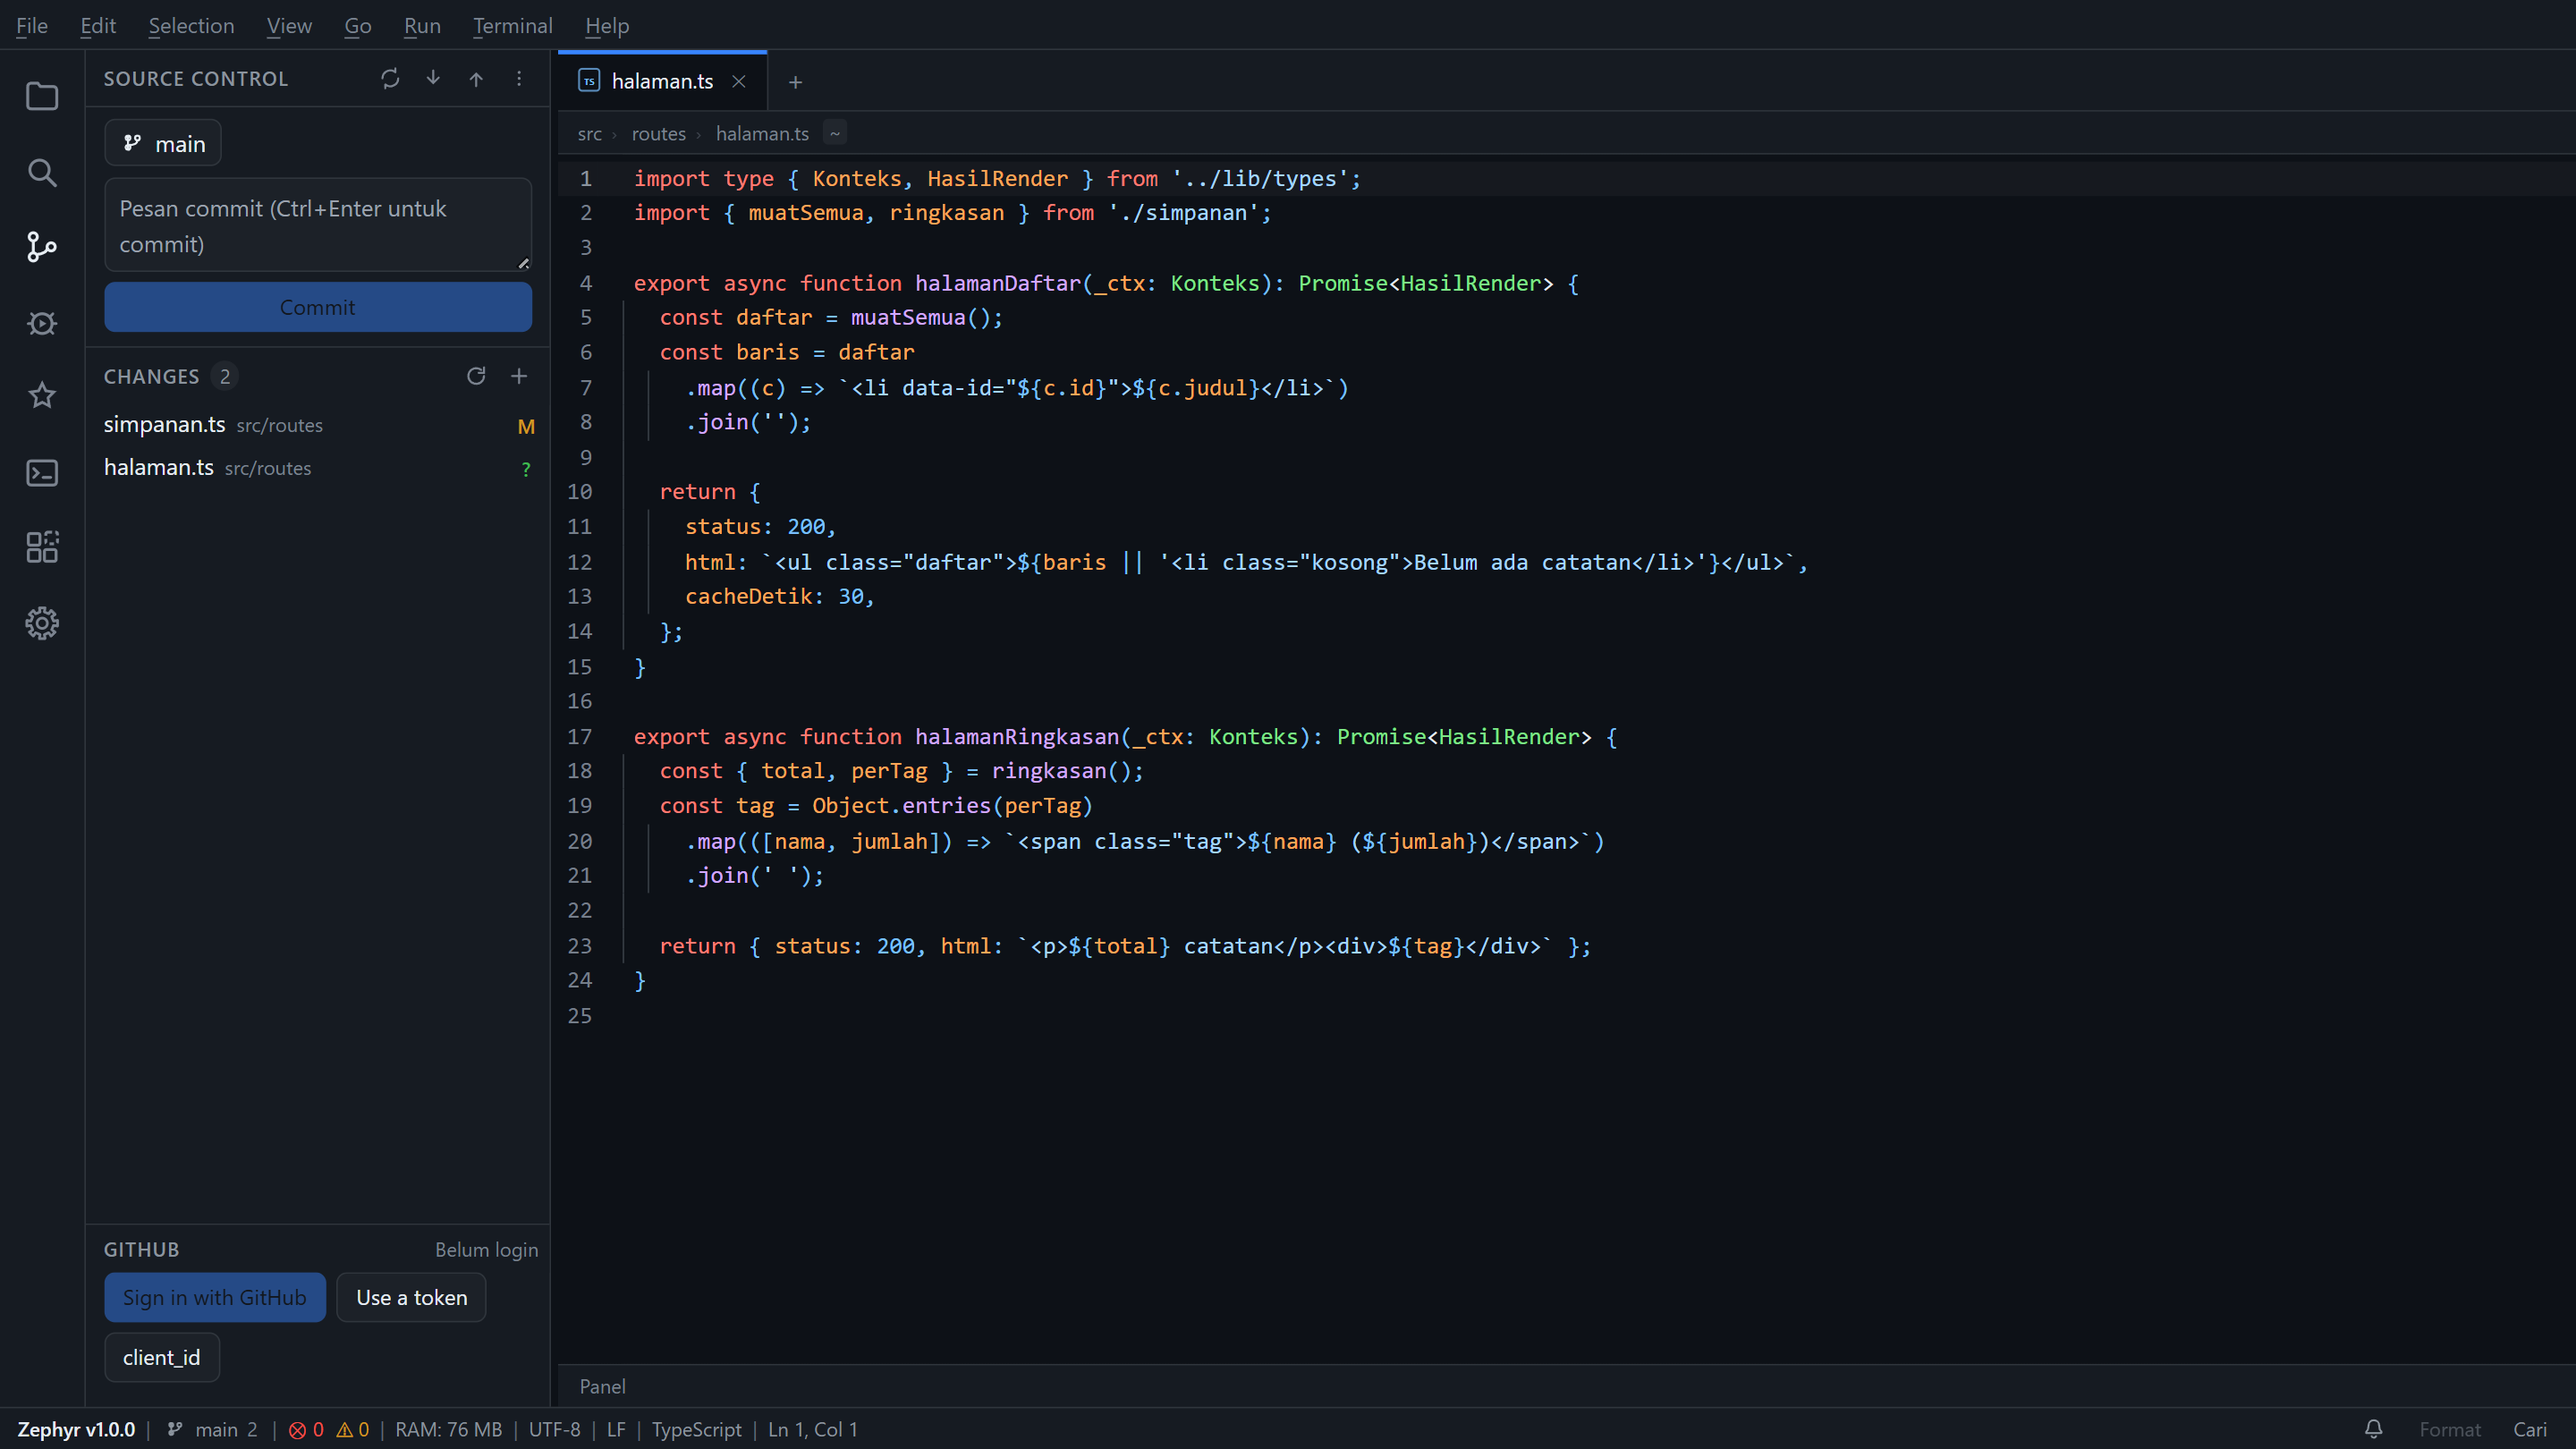
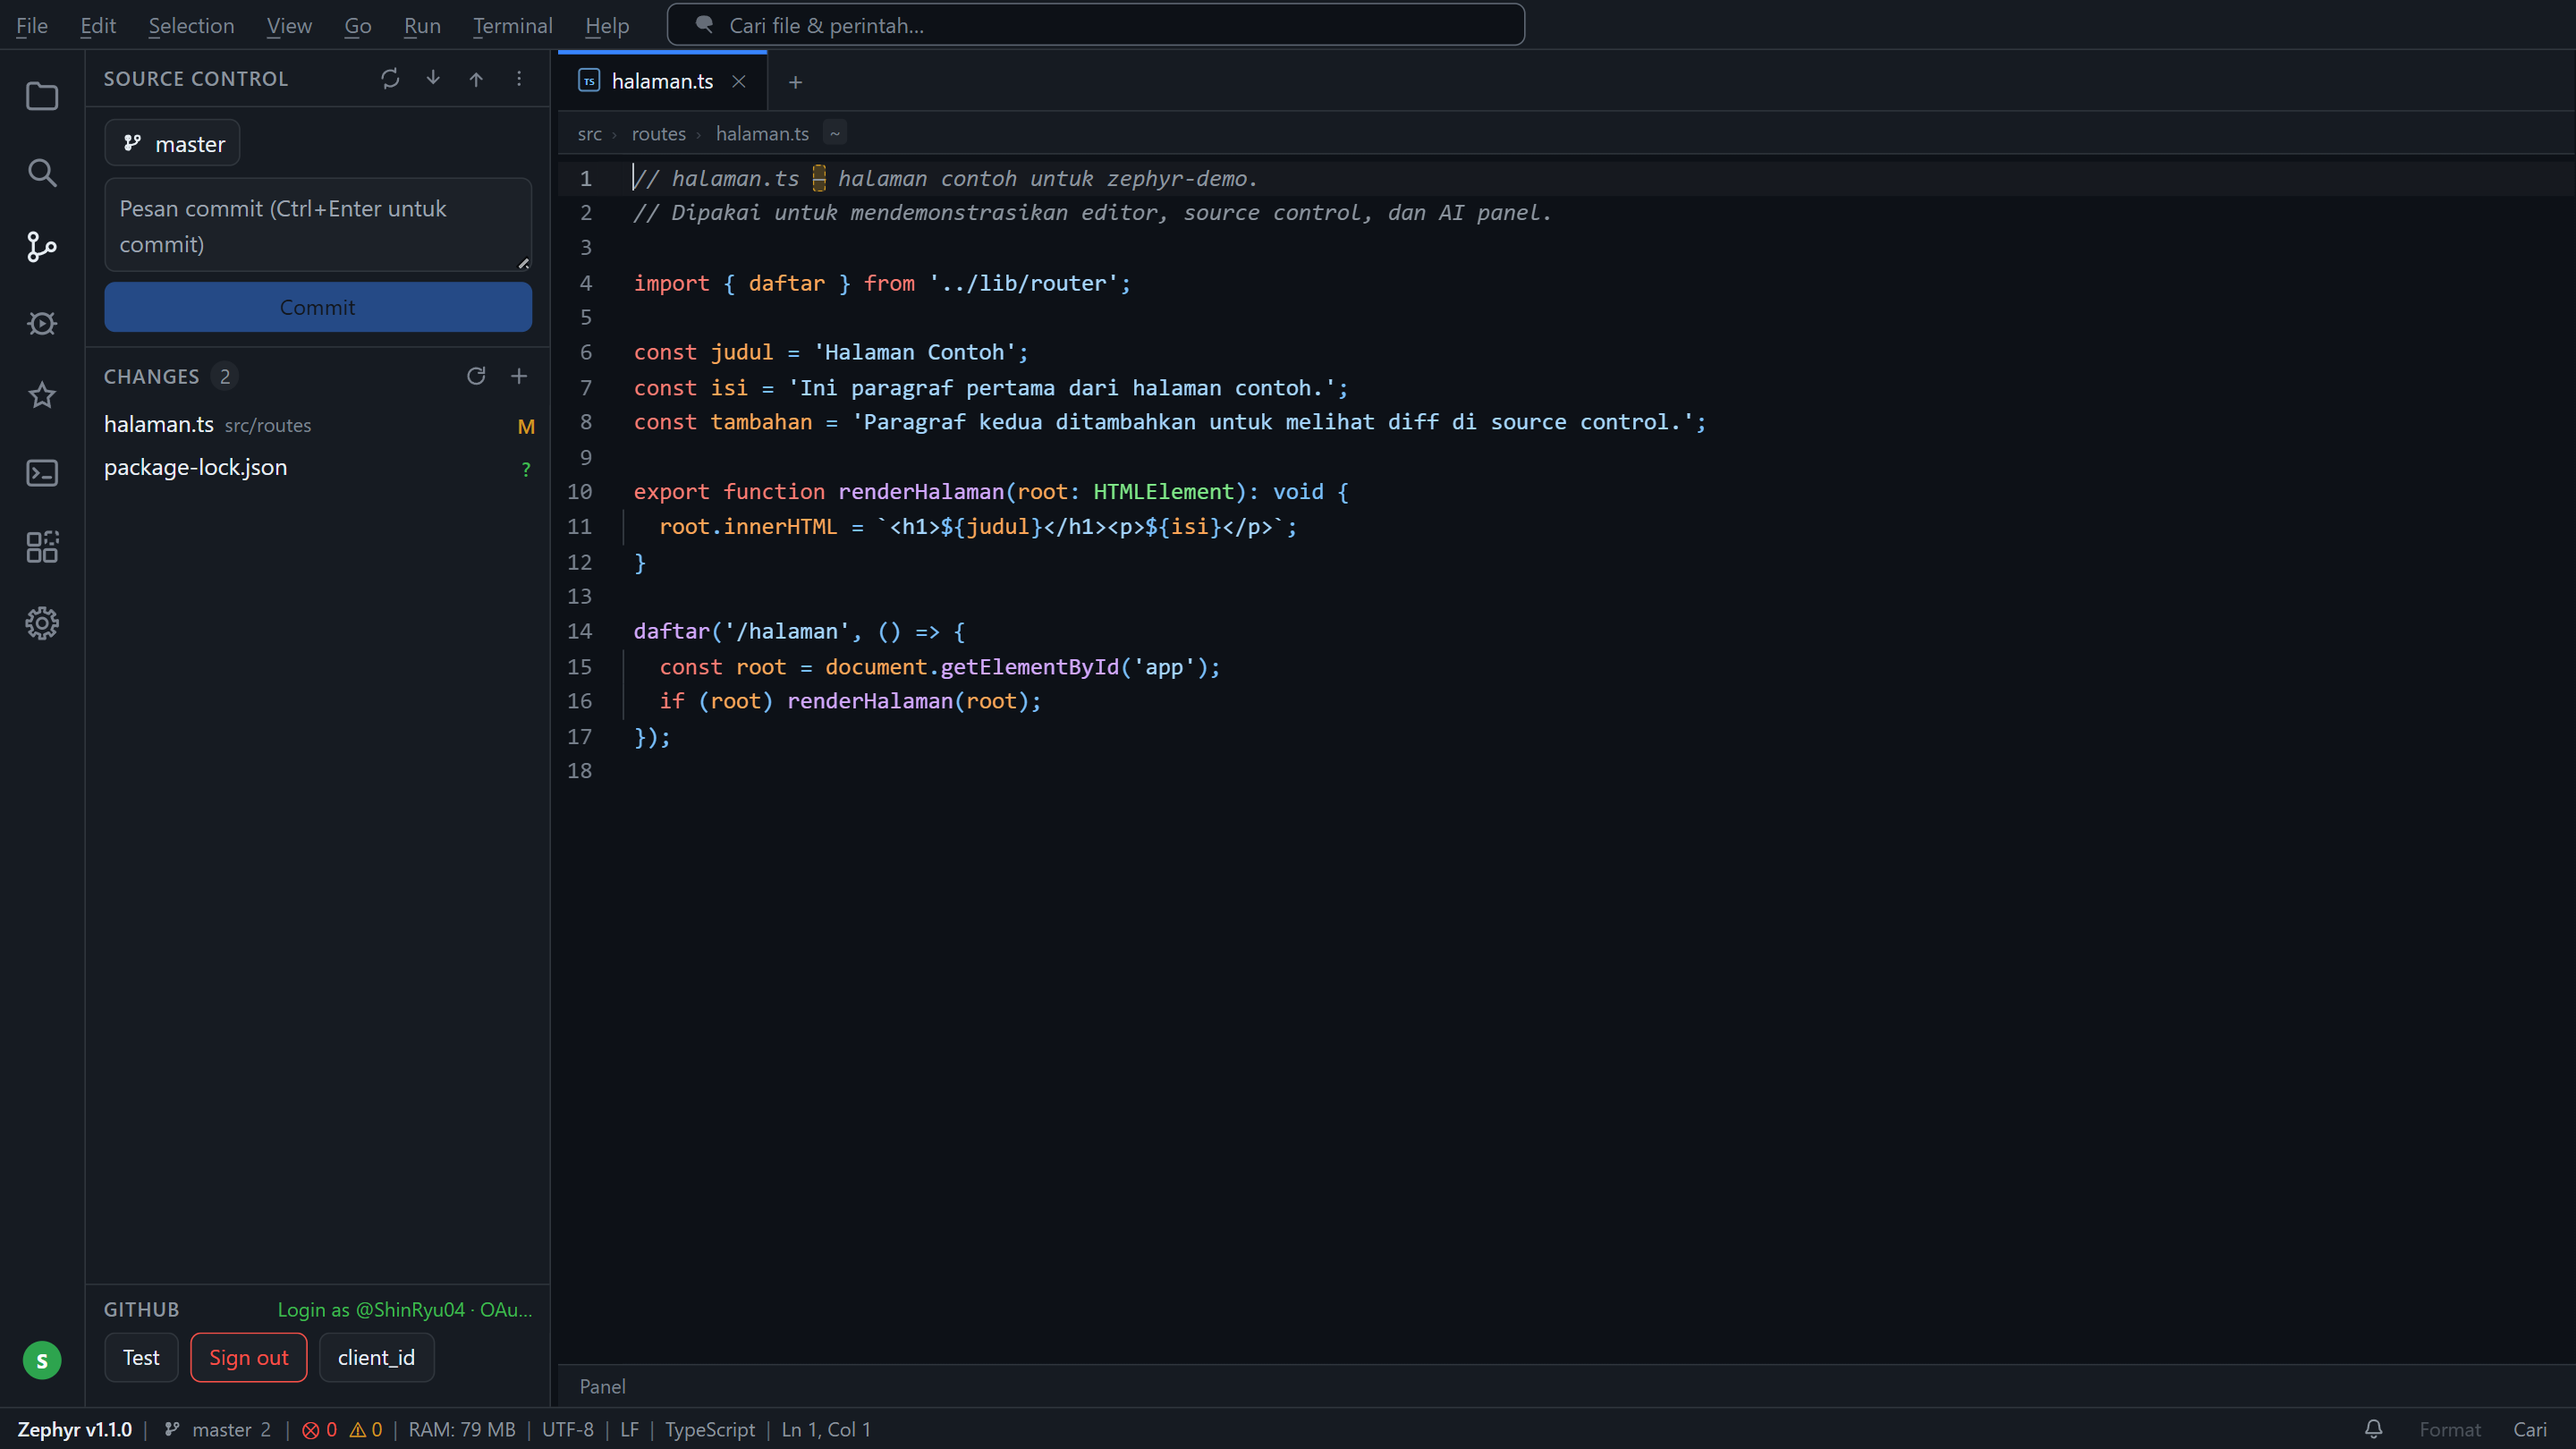
zephyr: README v1.1.0 — bagian instal lengkap, SSH, split editor, screenshot baru

diff --git a/README.md b/README.md
@@ -9,7 +9,7 @@
 Code editor desktop untuk Windows, dibangun dari nol dengan Tauri 2 + React +
 Rust. Bukan fork VS Code, bukan Electron.
 
-`v1.0.0` · Tauri 2 · React 18 · TypeScript · Rust
+`v1.1.0` · Tauri 2 · React 18 · TypeScript · Rust
 
 </div>
 
@@ -26,6 +26,33 @@ Gemini CLI, atau opencode bisa membaca dan mengubah isi jendelanya.
 Installer NSIS-nya 5,6 MB dan MSI-nya 8,0 MB. Sebagai pembanding, installer
 editor berbasis Electron biasanya 80–120 MB.
 
+## Instal
+
+Butuh Windows 10/11 (WebView2 Runtime sudah ada di Windows 11, jadi biasanya
+langsung jalan).
+
+1. **Unduh installer** — `Zephyr_1.1.0_x64-setup.exe` (atau `.msi`) dari
+   halaman [Releases](https://github.com/ShinRyu04/Zephyr/releases).
+2. **Jalankan installer** — SmartScreen mungkin memperingatkan karena installer
+   belum ditandatangani; klik **More info → Run anyway**. Itu normal, bukan
+   tanda bahaya.
+3. **Selesai** — Zephyr terbuka. Klik **Open Folder** di sidebar untuk membuka
+   proyekmu.
+4. **(Opsional) Pasang ekstensi** — buka panel Extensions → tab **Marketplace**,
+   cari ekstensi, klik **Install**. Zephyr menarik `.vsix` langsung dari Open
+   VSX, jadi ekstensi VS Code yang publik ikut tersedia.
+
+> Ekstensi v1 bersifat **manifest-only**: Zephyr membaca `package.json` dan
+> mendaftarkan `contributes.commands` ke Command Palette, tetapi TIDAK
+> menjalankan kode JS ekstensi. Bahasa, tema, snippet, keymap, dan command ikut
+> aktif; extension host penuh (kode JS ekstensi) sengaja tidak dijalankan demi
+> keamanan.
+
+Data dan settings disimpan di `%APPDATA%\zephyr\` — hapus folder itu untuk
+reset penuh.
+
+![Settings → SSH: kelola host dan buka sesi sebagai pane terminal](docs/screenshots/04-ssh.png)
+
 ## Yang ada di dalamnya
 
 **Editor** — CodeMirror 6. Tab multi-file, deteksi encoding (UTF-8, BOM,
@@ -37,6 +64,11 @@ langsung.
 **Terminal** — sampai 6 pane per tab lewat ConPTY: PowerShell, cmd, pwsh, bash,
 WSL. Ada Private Terminal yang scrollback-nya dihapus saat ditutup, pane khusus
 AI agent CLI, dan browser pane dengan "Split With Browser".
+
+**SSH** — kelola daftar host (nama, host, port, user, auth key/password) di
+Settings → SSH, lalu buka koneksinya sebagai pane terminal biasa. Password
+hanya disimpan bila kamu memilih "simpan", dan itu pun terenkripsi (XOR+BLAKE3)
+di `ssh.json`, bukan plaintext.
 
 **Source Control** — status, diff, stage, commit, branch, push/pull/sync, log.
 Diff file biner dilabeli alih-alih memuntahkan byte mentah. Push saat remote
@@ -63,10 +95,22 @@ subsequence.
 
 ![Command palette](docs/screenshots/03-palette.png)
 
+**GitHub login** — login akun GitHub lewat device flow (browser), tampil sebagai
+avatar di pojok kiri bawah, dipakai untuk push/pull tanpa repot credential.
+
+**Split editor** — bagi editor jadi dua grup (View → Split Editor Right,
+`Ctrl+\`), tiap grup punya tab bar sendiri, gabungkan kembali kapan saja.
+
+**Ekstensi & Marketplace** — cari & pasang ekstensi dari Open VSX langsung di
+panel Extensions, lengkap dengan logo asli; atau install `.vsix` manual dari
+folder.
+
+![Marketplace ekstensi dengan logo asli](docs/screenshots/05-market.png)
+
 **Sisanya** — global search lewat ripgrep, tasks runner dengan problem matcher,
-local history + timeline, multi-root workspace dengan workspace trust, 7 tema,
-CLI launcher (`zephyr .`, `--diff`, `--wait`), dan Settings 14 section dengan
-shortcut yang bisa di-remap beserta deteksi konflik.
+local history + timeline, multi-root workspace dengan workspace trust, 7 tema
+(+ Senja), CLI launcher (`zephyr .`, `--diff`, `--wait`), dan Settings 14
+section dengan shortcut yang bisa di-remap beserta deteksi konflik.
 
 ## Aksesibilitas
 
@@ -85,8 +129,6 @@ Bukan tempelan. Fase terakhir seluruhnya soal ini:
 
 ## Kondisi jujur
 
-Yang **belum** ada: SSH remote (ditunda sampai ada hosting untuk mengujinya).
-
 Marketplace ekstensi masih terbatas: ekstensi v1 **hanya membaca manifest**, kode
 JS-nya tidak dijalankan. Itu keputusan keamanan, bukan kemalasan — mengeksekusi
 JS ekstensi berarti memberi pihak ketiga akses penuh ke `window`, artinya ke
@@ -94,6 +136,9 @@ seluruh IPC termasuk fs, pty, git, dan secrets.
 
 Installer tidak ditandatangani, jadi SmartScreen akan memperingatkan saat
 pertama kali dijalankan.
+
+Auto-update dalam aplikasi belum aktif (belum ada private key signing) — cek
+halaman Releases untuk versi baru.
 
 API key disimpan dengan XOR + kunci BLAKE3 dari MachineGuid. Itu **obfuskasi,
 bukan enkripsi** — cukup untuk mencegah key terbaca sekilas, tidak cukup
